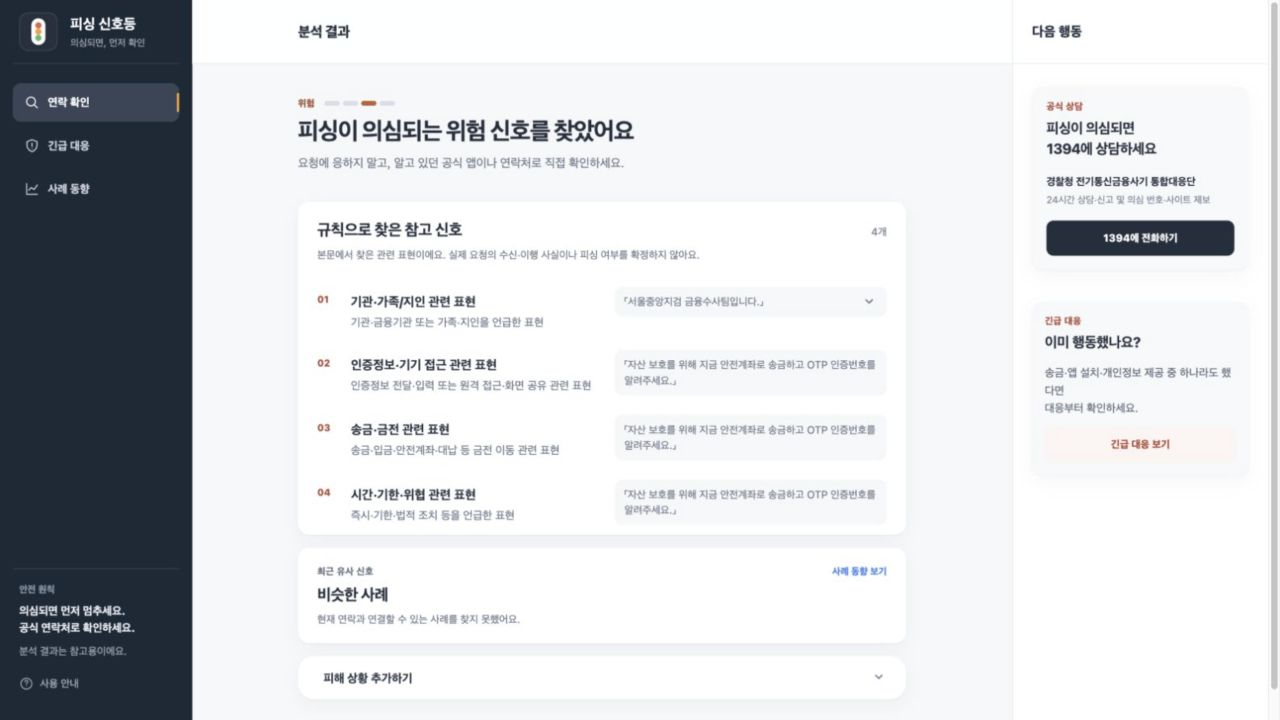
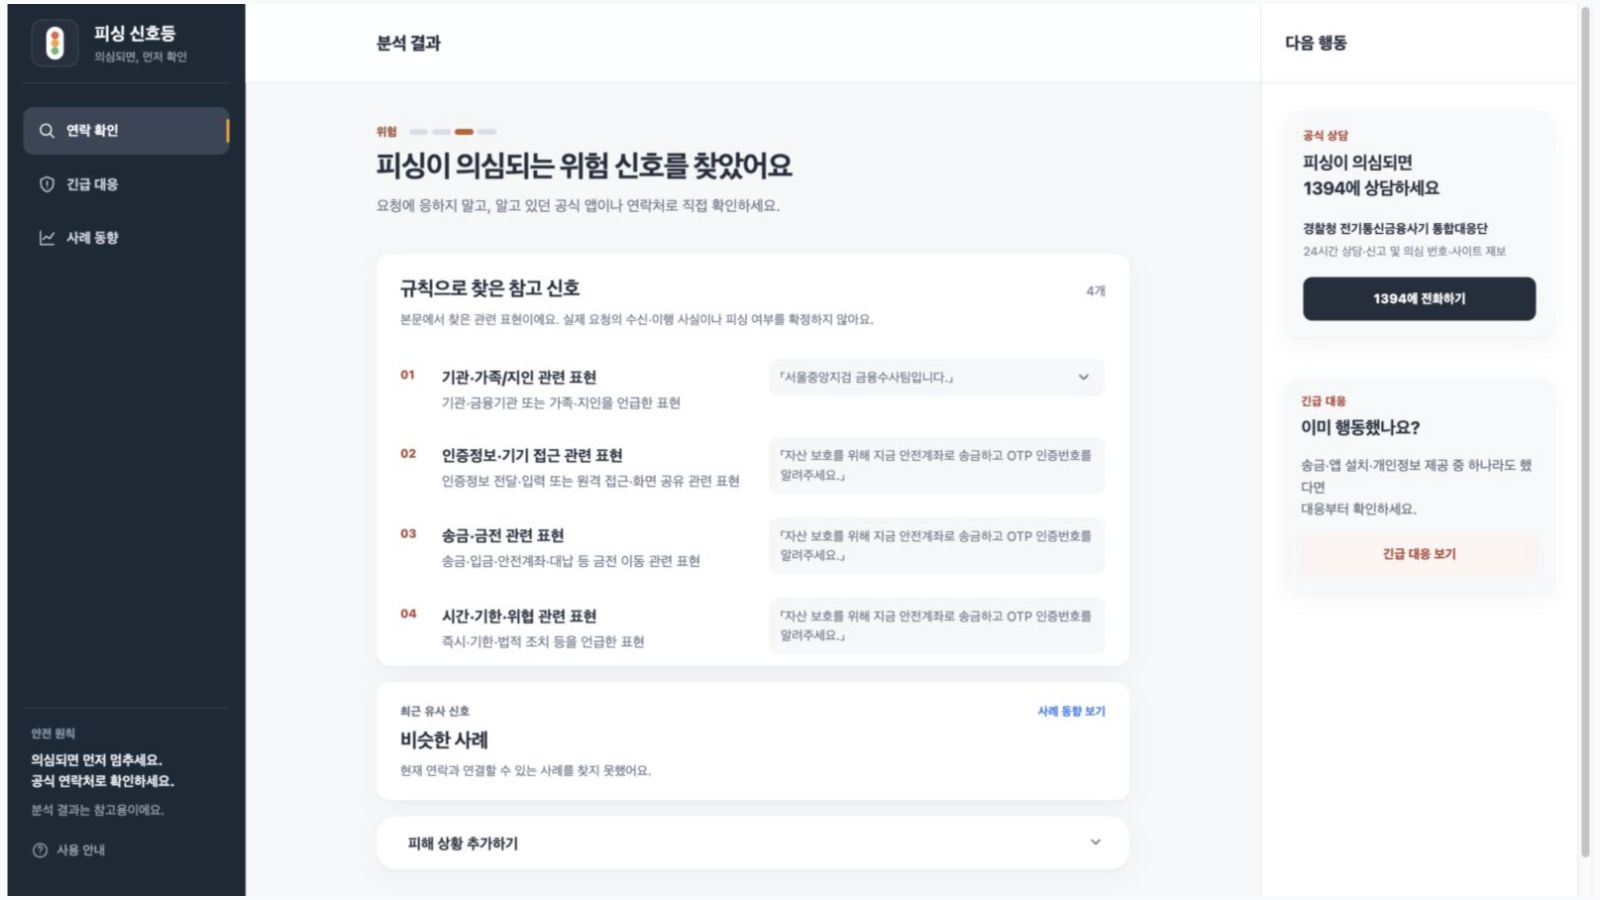
docs(showcase): 제출 이미지 해상도를 1600x900으로 통일

diff --git a/docs/demo.md b/docs/demo.md
@@ -34,7 +34,7 @@
 
 ## 촬영과 검증 범위
 
-- 촬영: 2026.09.20, 공개 운영 서비스, 데스크톱 Chromium, 1600×900 화면. 제출 출력은 1600×900 또는 1280×720(모두 16:9).
+- 촬영: 2026.09.20, 공개 운영 서비스, 데스크톱 Chromium, 1600×900 화면. 제출 출력은 모두 1600×900(16:9).
 - 내장 합성 예시와 시연용 피해 상황 선택만 사용했습니다. 개인의 실제 연락·피해 정보는 포함하지 않았습니다.
 - 결과 문구를 편집하거나 미구현 기능을 덧그리지 않았습니다. 스크롤바로 캡처 크기가 달라진 두 화면에는 16:9 규격을 맞추는 바깥 여백만 추가했습니다.
 - 대표 이미지는 실제 제품 화면을 배치한 소개용 디자인입니다. 판단 흐름 이미지는 구조 설명용 도식입니다.
